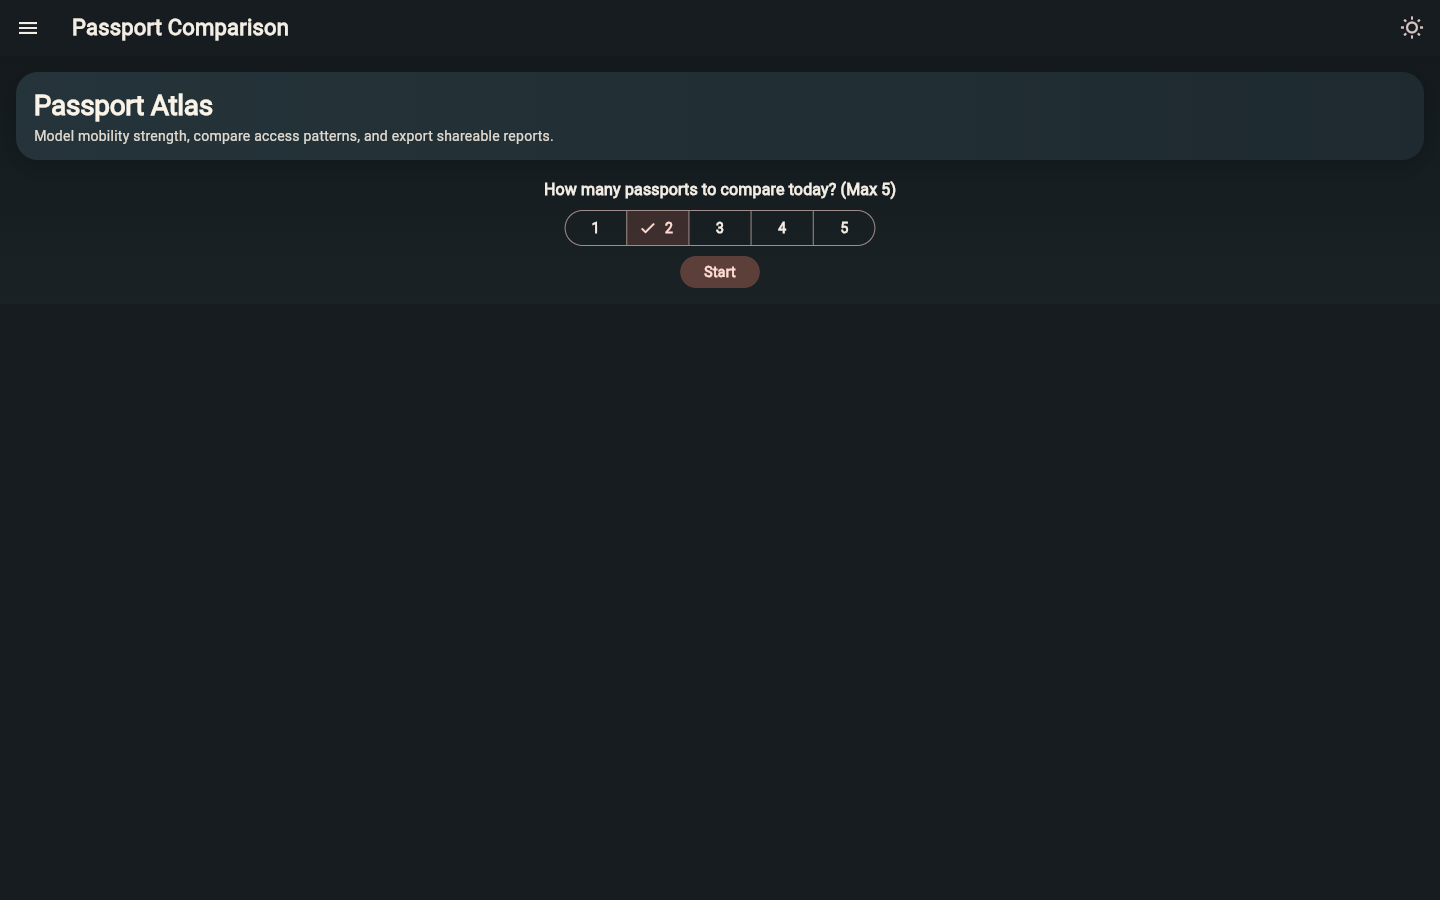
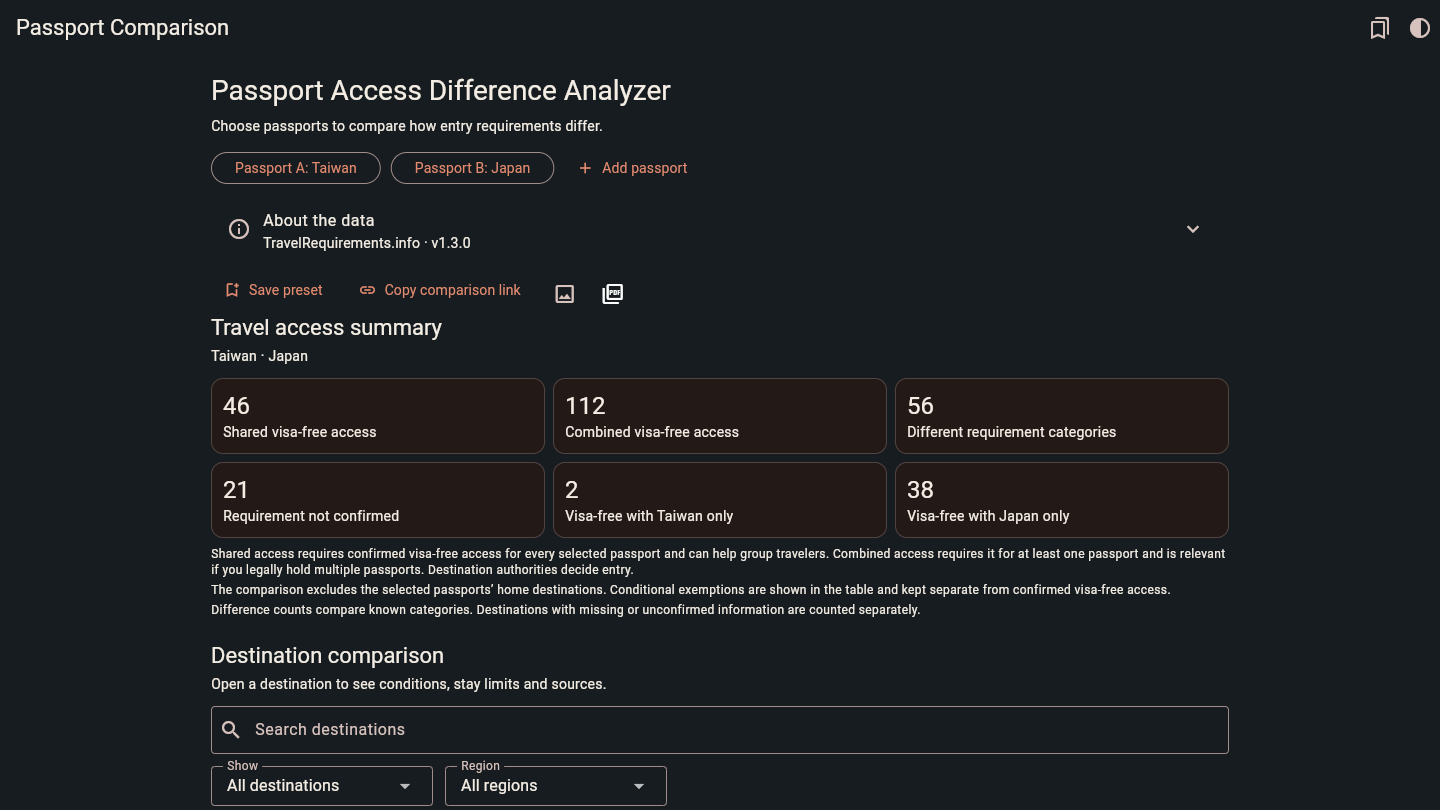
Refresh Passport Comparison preview from the live analyzer

diff --git a/src/data/passportComparisonEngineering.ts b/src/data/passportComparisonEngineering.ts
@@ -18,7 +18,7 @@ export const passportComparisonEngineering: LocalizedEngineeringStory = {
       caption: "Results use the published snapshot. Confirm current requirements with the destination authority before travel."
     },
     decision: "Only confirmed categories can establish a difference. Missing records and expired temporary rules appear as unconfirmed so travelers can see where further verification is needed.",
-    previewCaption: "An earlier Passport Atlas screen shows passport-count selection before a comparison."
+    previewCaption: "The Taiwan–Japan comparison shows shared visa-free access, entry-rule differences, and unconfirmed requirements in dataset v1.3.0."
   },
   zh: {
     facts: {
@@ -37,6 +37,6 @@ export const passportComparisonEngineering: LocalizedEngineeringStory = {
       caption: "比較結果來自網站發布的快照。出發前請向目的地主管機關確認最新入境規定。"
     },
     decision: "僅將已確認的入境類別納入差異判定。缺少的紀錄與已到期的臨時規定會標示為未確認，讓旅客知道哪些資訊仍需查證。",
-    previewCaption: "較早版本的 Passport Atlas 畫面，呈現開始比較前選擇護照數量的步驟。"
+    previewCaption: "台灣與日本護照的比較結果列出共同免簽範圍、入境規定差異及尚未確認的項目，資料集版本為 v1.3.0。"
   }
 };

diff --git a/progress.md b/progress.md
@@ -6,7 +6,7 @@
 
 **Active work:** Extend the merged PR #60 pattern to CraftFocus, Tax Auto Extraction and Passport Comparison.
 
-**Status:** A project ID lookup selects bilingual engineering content for the existing drawers. Each new story has four facts, one diagram, one decision and a caption for the existing screenshot.
+**Status:** A project ID lookup selects bilingual engineering content for the existing drawers. Each story has four facts, one diagram, one decision and a preview caption. The Passport card and drawer now use a capture of the live analyzer.
 
 ### Verification Evidence
 
@@ -191,6 +191,12 @@ When project data, assets, dependencies, routing, CI, or maintenance workflows c
 4. Record incomplete verification and remaining risks explicitly.
 
 ## History
+
+### 2026-11-17 — Passport Comparison live preview refresh
+
+- Verified the live analyzer in Chromium and loaded the Taiwan–Japan comparison with dataset `v1.3.0`. The earlier portfolio preview showed the Passport Atlas count picker. Replaced both `passportcomparison` preview files and updated the English and Traditional Chinese captions in `src/data/passportComparisonEngineering.ts`. [Live comparison](https://leo0331.github.io/passportcomparison/?passports=TW%2CJP)
+- Confirmed that the built card and drawer serve the exact new WebP and PNG at 390px and 1440px in both languages. Refreshed the Passport after capture for PR #61. The dry run, locked install, audit, harness, 49 unit tests, production build, 294 Chromium tests, 17/17 tracked flows, and diff check passed.
+- The refreshed preview is on the review branch. The hosted portfolio will display it after approval and deployment of PR #61.
 
 ### 2026-11-17 — Selected engineering stories after PR #60
 

diff --git a/session-handoff.md b/session-handoff.md
@@ -2,7 +2,7 @@
 
 **Current objective:** Extend PR #60 to the existing CraftFocus, Tax Auto Extraction and Passport Comparison drawers.
 
-**Current status:** The bilingual stories are on `codex/selected-engineering-stories`, based on merged main at `912c82f`.
+**Current status:** [PR #61](https://github.com/LEO0331/portfolio/pull/61) includes the bilingual stories and the refreshed Passport Comparison preview from the live demo.
 
 ## Verification Evidence
 
@@ -14,7 +14,7 @@ None for the portfolio change.
 
 ## Remaining Risks
 
-Upstream account writes, private-file extraction and Passport PDF export were outside the verification. The Passport preview depicts an earlier version.
+Upstream account writes, private-file extraction and Passport PDF export were outside the verification. The Passport snapshot in the preview is dated by its dataset version.
 
 ## Recommended Next Step
 
